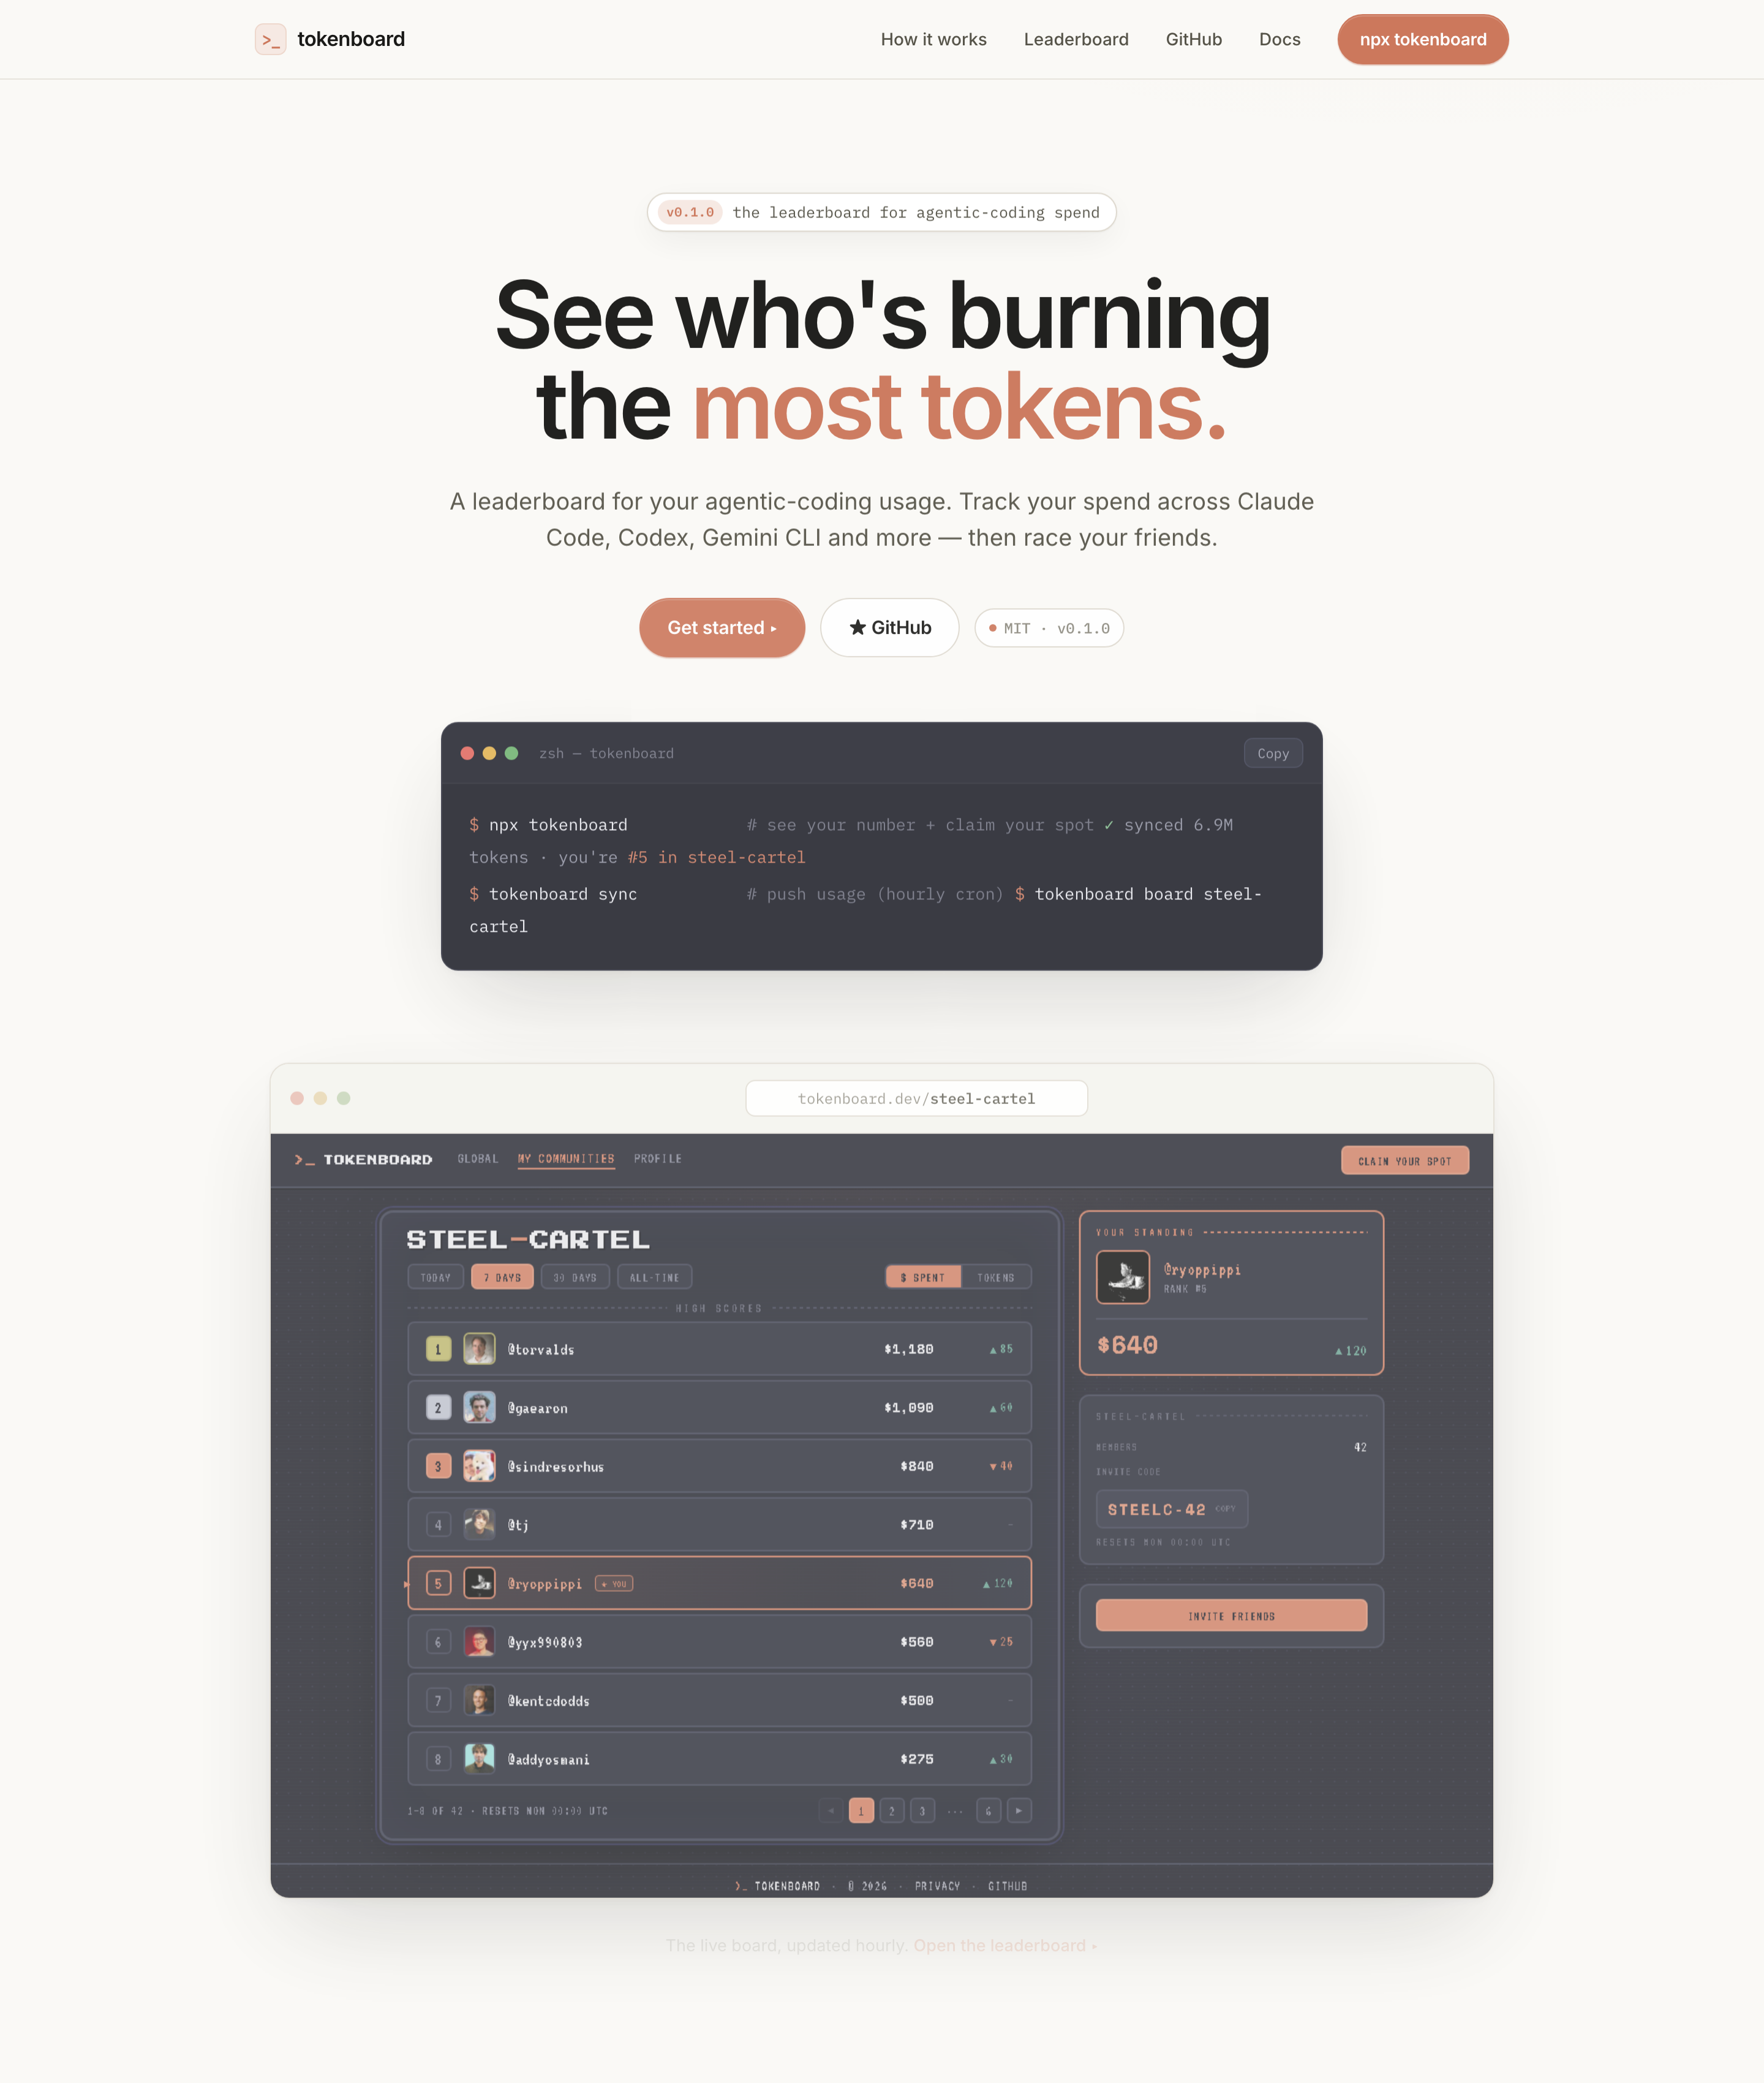
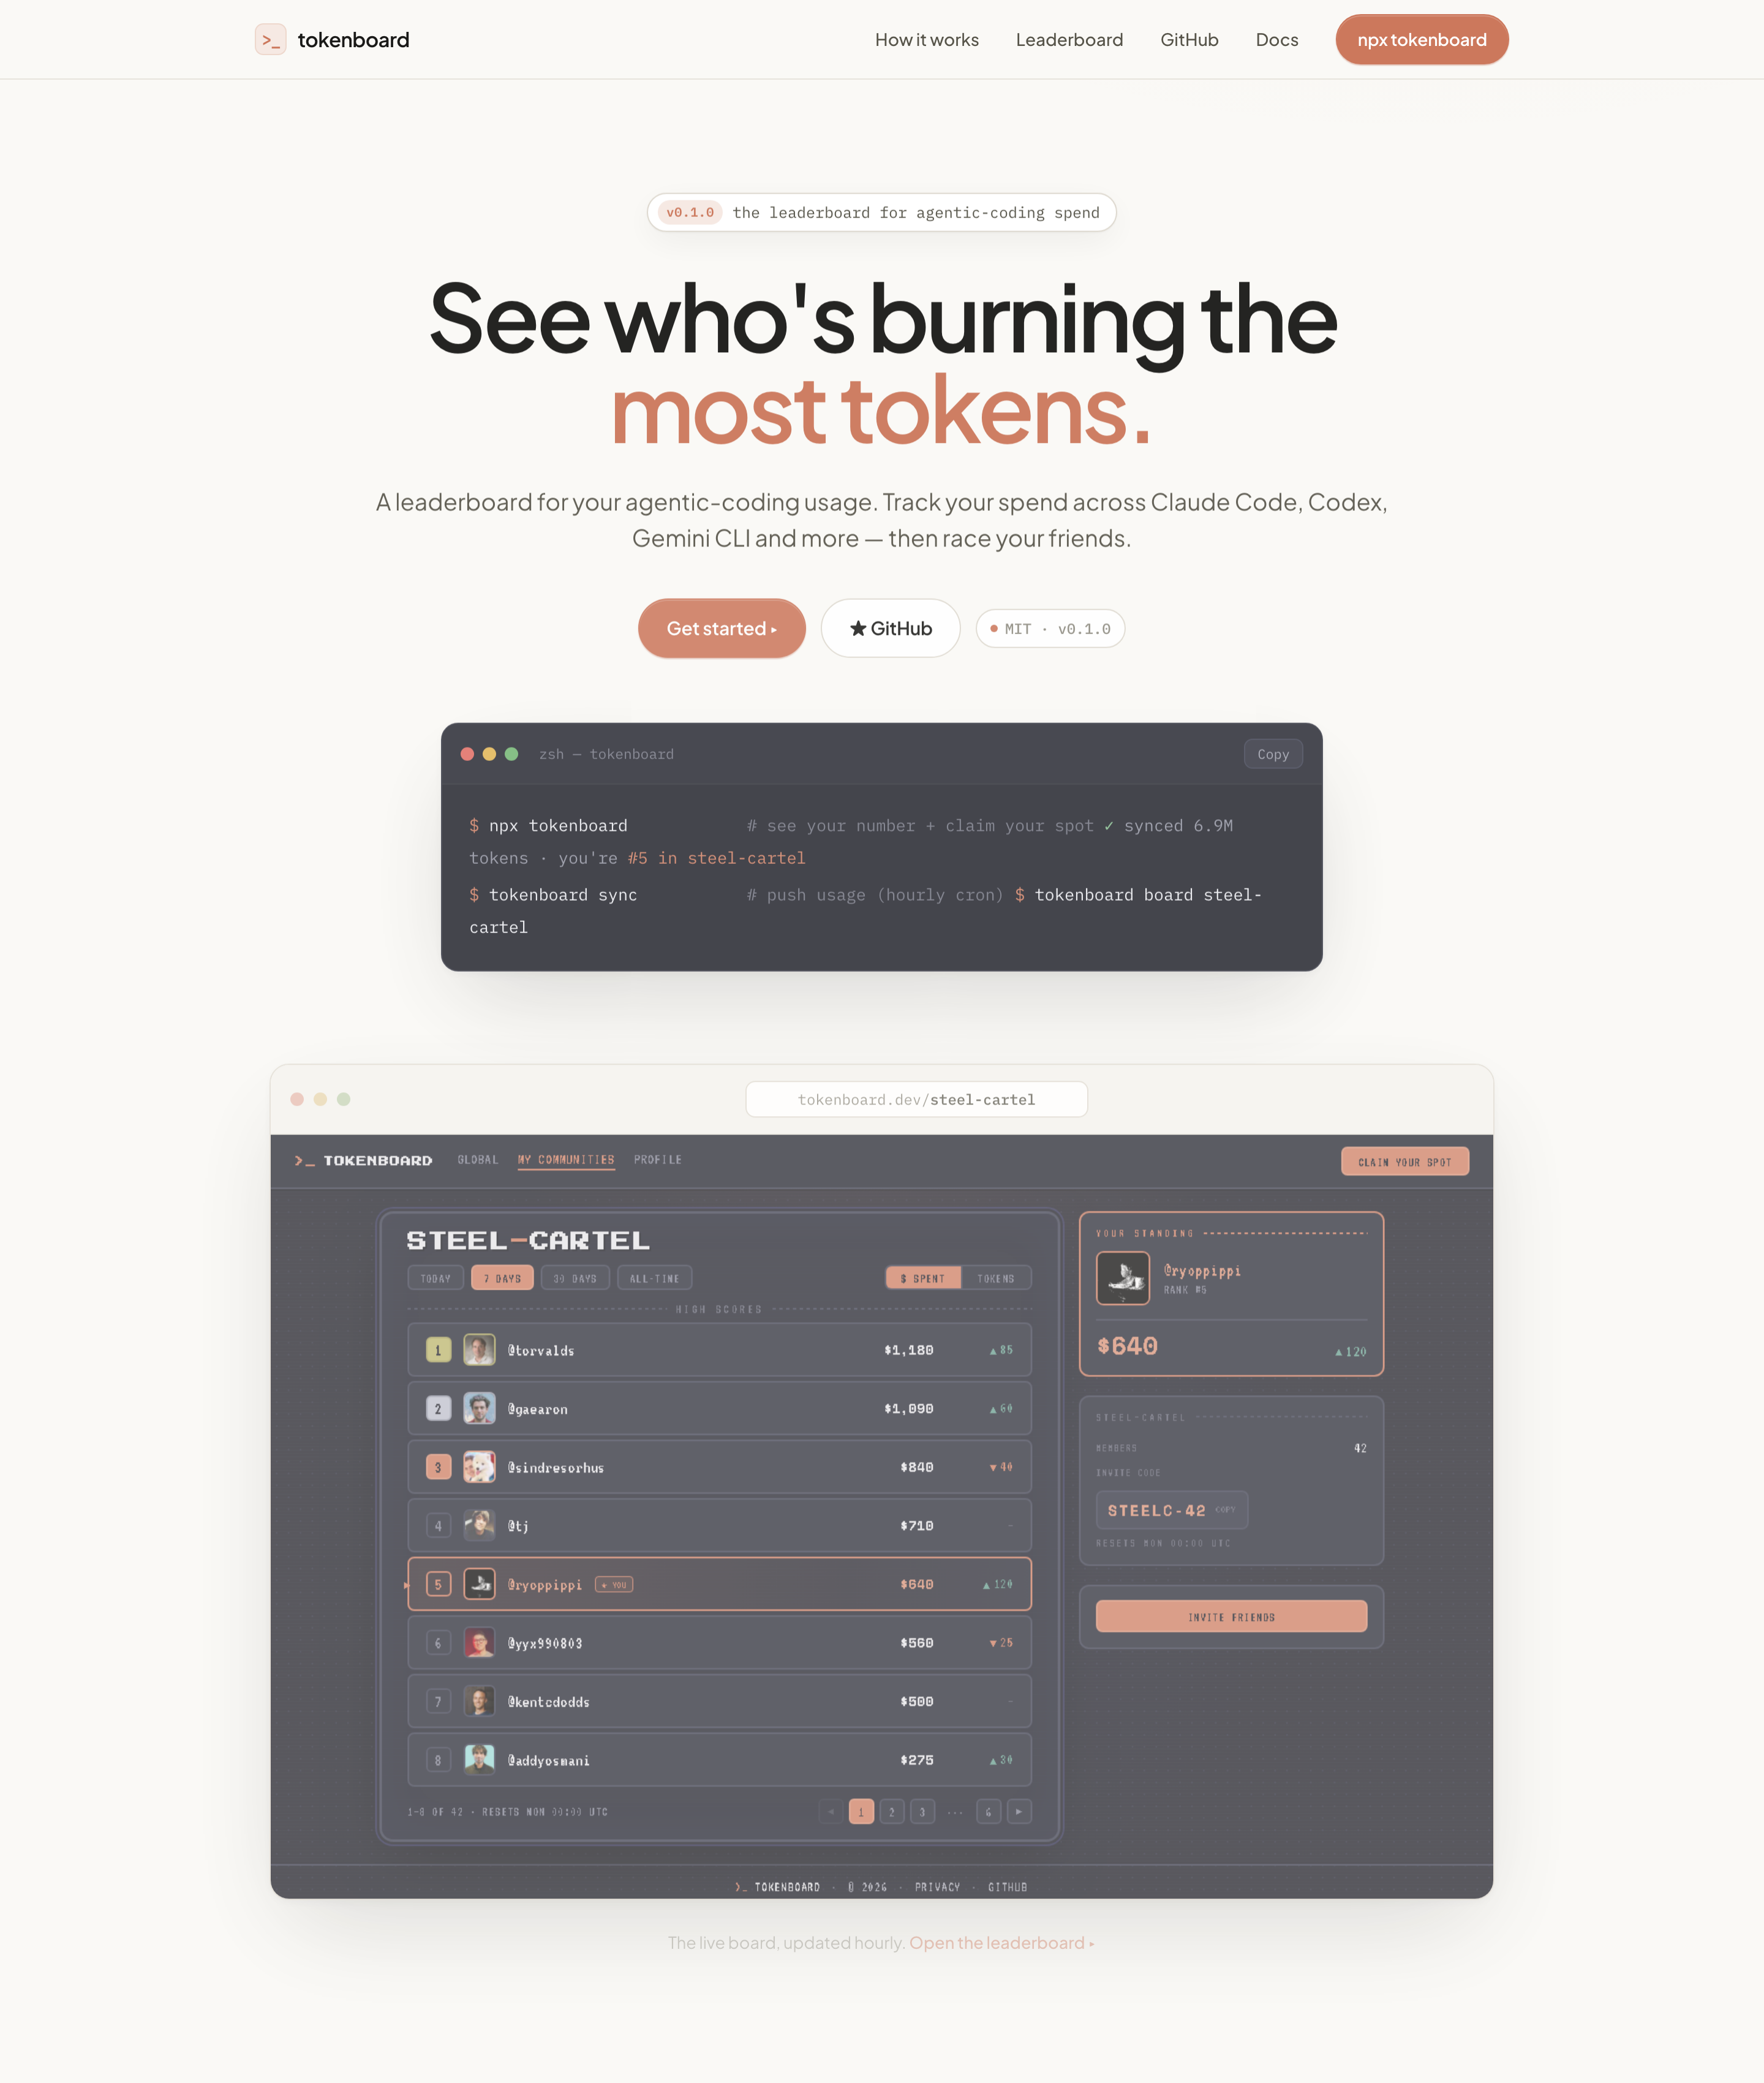
style(landing): switch landers to Plus Jakarta Sans
Replace Inter (light) and Geist (dark) with Plus Jakarta Sans for the UI/
headline font on both landing pages; numbers/terminal stay IBM Plex Mono,
dark keeps its Press Start 2P wordmark. Add the font-comparison page used
to pick it.

diff --git a/prototypes/font-compare/index.html b/prototypes/font-compare/index.html
@@ -1,0 +1,137 @@
+<!DOCTYPE html>
+<html lang="en">
+<head>
+<meta charset="UTF-8" />
+<meta name="viewport" content="width=device-width, initial-scale=1.0" />
+<title>tokenboard — landing font comparison</title>
+<link rel="preconnect" href="https://fonts.googleapis.com" />
+<link rel="preconnect" href="https://fonts.gstatic.com" crossorigin />
+<link href="https://fonts.googleapis.com/css2?family=Press+Start+2P&family=Hanken+Grotesk:wght@400;500;600;700;800&family=Plus+Jakarta+Sans:wght@400;500;600;700;800&family=Geist:wght@400;500;600;700;800&family=IBM+Plex+Mono:wght@400;500;600&display=swap" rel="stylesheet" />
+<style>
+  :root{
+    --bg:#14151f; --bg-2:#181a26; --panel:#1f212e; --frame:#34374a;
+    --ink:#e6e6ea; --ink-2:#a8a9b6; --ink-3:#76788a; --ink-4:#565869;
+    --coral:#cc785c; --coral-hi:#d68d72;
+    --mono:'IBM Plex Mono',monospace;
+  }
+  *{box-sizing:border-box;margin:0;padding:0}
+  body{
+    background:var(--bg); color:var(--ink); min-height:100vh;
+    font-family:'Geist',system-ui,sans-serif; padding:40px 24px 80px;
+    background-image:radial-gradient(700px 400px at 50% -10%,rgba(204,120,92,0.06),transparent 70%);
+  }
+  .page{max-width:1180px;margin:0 auto}
+  .pg-head{text-align:center;margin-bottom:36px}
+  .pg-head h1{font-family:var(--mono);font-size:14px;letter-spacing:3px;text-transform:uppercase;color:var(--ink-3);font-weight:500}
+  .pg-head p{font-family:var(--mono);font-size:13px;color:var(--ink-4);margin-top:8px}
+
+  .grid{display:grid;grid-template-columns:repeat(2,1fr);gap:22px}
+  @media(max-width:880px){.grid{grid-template-columns:1fr}}
+
+  .card{
+    background:var(--bg-2);border:1px solid var(--frame);border-radius:16px;
+    padding:34px 34px 30px;position:relative;overflow:hidden;
+  }
+  .tag{
+    font-family:var(--mono);font-size:11px;letter-spacing:2px;text-transform:uppercase;
+    color:var(--coral);margin-bottom:22px;display:flex;align-items:center;gap:8px;
+  }
+  .tag .dot{width:6px;height:6px;background:var(--coral);border-radius:1px}
+  .tag .meta{color:var(--ink-4);margin-left:auto;letter-spacing:1px}
+
+  /* the hero specimen — same content, different font per card */
+  .badge{
+    display:inline-flex;align-items:center;gap:7px;font-family:var(--mono);
+    font-size:11px;letter-spacing:1px;text-transform:uppercase;color:var(--ink-3);
+    border:1px solid var(--frame);border-radius:999px;padding:5px 12px;margin-bottom:18px;
+  }
+  .h1{font-size:42px;line-height:1.04;letter-spacing:-0.03em;font-weight:700;color:var(--ink)}
+  .h1 .accent{color:var(--coral)}
+  .sub{font-size:16px;line-height:1.5;color:var(--ink-2);margin-top:16px;max-width:30ch}
+  .cta{display:flex;align-items:center;gap:10px;margin-top:22px;flex-wrap:wrap}
+  .btn{font-size:14px;font-weight:600;color:#14151f;background:var(--coral);border:1px solid var(--coral-hi);border-radius:9px;padding:10px 18px;letter-spacing:.2px}
+  .ghost{font-size:14px;color:var(--ink-2);background:var(--panel);border:1px solid var(--frame);border-radius:9px;padding:10px 16px}
+  .ver{font-family:var(--mono);font-size:12px;color:var(--ink-4);border:1px solid var(--frame);border-radius:999px;padding:6px 11px}
+
+  /* per-card font assignments — body+headline use the named family; mono/numbers stay IBM Plex Mono */
+  .f-arcade .h1{font-family:'Press Start 2P',monospace;font-size:23px;line-height:1.3;letter-spacing:0}
+  .f-arcade .sub, .f-arcade .badge, .f-arcade .btn, .f-arcade .ghost{font-family:'Press Start 2P',monospace}
+  .f-arcade .sub{font-size:11px;line-height:1.9}
+  .f-arcade .btn{font-size:11px;padding:12px 16px}
+
+  .f-hanken .h1, .f-hanken .sub, .f-hanken .btn, .f-hanken .ghost{font-family:'Hanken Grotesk',sans-serif}
+  .f-jakarta .h1, .f-jakarta .sub, .f-jakarta .btn, .f-jakarta .ghost{font-family:'Plus Jakarta Sans',sans-serif}
+  .f-geist .h1, .f-geist .sub, .f-geist .btn, .f-geist .ghost{font-family:'Geist',sans-serif}
+
+  .note{font-family:var(--mono);font-size:12px;color:var(--ink-4);margin-top:24px;border-top:1px solid var(--frame);padding-top:14px;line-height:1.6}
+</style>
+</head>
+<body>
+  <div class="page">
+    <div class="pg-head">
+      <h1>tokenboard · landing font comparison</h1>
+      <p>same hero, four fonts · numbers/terminal stay IBM Plex Mono in all</p>
+    </div>
+
+    <div class="grid">
+
+      <!-- ARCADE -->
+      <div class="card f-arcade">
+        <div class="tag"><span class="dot"></span>Arcade — Press Start 2P <span class="meta">pixel</span></div>
+        <span class="badge">&gt;_ a leaderboard for agentic coding</span>
+        <div class="h1">See who's burning the <span class="accent">most tokens.</span></div>
+        <div class="sub">Track your spend across Claude Code, Codex, Gemini CLI and more — then race your friends.</div>
+        <div class="cta">
+          <span class="btn">Get started ▸</span>
+          <span class="ghost">★ GitHub</span>
+          <span class="ver">MIT · v0.1.0</span>
+        </div>
+        <div class="note">Most on-brand with the pixel dashboard. Risk: heavy at headline size, low legibility for the sub-line.</div>
+      </div>
+
+      <!-- HANKEN -->
+      <div class="card f-hanken">
+        <div class="tag"><span class="dot"></span>Hanken Grotesk <span class="meta">grotesk</span></div>
+        <span class="badge">&gt;_ a leaderboard for agentic coding</span>
+        <div class="h1">See who's burning the <span class="accent">most tokens.</span></div>
+        <div class="sub">Track your spend across Claude Code, Codex, Gemini CLI and more — then race your friends.</div>
+        <div class="cta">
+          <span class="btn">Get started ▸</span>
+          <span class="ghost">★ GitHub</span>
+          <span class="ver">MIT · v0.1.0</span>
+        </div>
+        <div class="note">Warm, friendly, slightly rounded. Reads designed and approachable.</div>
+      </div>
+
+      <!-- JAKARTA -->
+      <div class="card f-jakarta">
+        <div class="tag"><span class="dot"></span>Plus Jakarta Sans <span class="meta">geometric</span></div>
+        <span class="badge">&gt;_ a leaderboard for agentic coding</span>
+        <div class="h1">See who's burning the <span class="accent">most tokens.</span></div>
+        <div class="sub">Track your spend across Claude Code, Codex, Gemini CLI and more — then race your friends.</div>
+        <div class="cta">
+          <span class="btn">Get started ▸</span>
+          <span class="ghost">★ GitHub</span>
+          <span class="ver">MIT · v0.1.0</span>
+        </div>
+        <div class="note">Geometric, modern, distinctive (browserarena's display font). A touch more character than Geist.</div>
+      </div>
+
+      <!-- GEIST (current) -->
+      <div class="card f-geist">
+        <div class="tag"><span class="dot"></span>Geist <span class="meta">current</span></div>
+        <span class="badge">&gt;_ a leaderboard for agentic coding</span>
+        <div class="h1">See who's burning the <span class="accent">most tokens.</span></div>
+        <div class="sub">Track your spend across Claude Code, Codex, Gemini CLI and more — then race your friends.</div>
+        <div class="cta">
+          <span class="btn">Get started ▸</span>
+          <span class="ghost">★ GitHub</span>
+          <span class="ver">MIT · v0.1.0</span>
+        </div>
+        <div class="note">What the landers use now. Vercel's font — clean/neutral, but you felt it reads a bit AI-default.</div>
+      </div>
+
+    </div>
+  </div>
+</body>
+</html>

diff --git a/prototypes/landing-dark/index.html b/prototypes/landing-dark/index.html
@@ -7,7 +7,7 @@
 <meta name="description" content="A leaderboard for your agentic-coding token usage. Track spend across Claude Code, Codex, Gemini CLI and more — then race your friends." />
 <link rel="preconnect" href="https://fonts.googleapis.com" />
 <link rel="preconnect" href="https://fonts.gstatic.com" crossorigin />
-<link href="https://fonts.googleapis.com/css2?family=Geist:wght@300;400;500;600;700&family=Geist+Mono:wght@400;500&family=Press+Start+2P&display=swap" rel="stylesheet" />
+<link href="https://fonts.googleapis.com/css2?family=Plus+Jakarta+Sans:wght@400;500;600;700;800&family=Geist+Mono:wght@400;500&family=Press+Start+2P&display=swap" rel="stylesheet" />
 <style>
   :root {
     /* deep slate-navy — matched to dashboard tokens */
@@ -28,7 +28,7 @@
 
     --teal:      #5f998a;
 
-    --sans:  'Geist', ui-sans-serif, system-ui, sans-serif;
+    --sans:  'Plus Jakarta Sans', ui-sans-serif, system-ui, sans-serif;
     --mono:  'Geist Mono', ui-monospace, monospace;
     --pixel: 'Press Start 2P', monospace;
 

diff --git a/prototypes/landing-light/index.html b/prototypes/landing-light/index.html
@@ -7,7 +7,7 @@
 <meta name="description" content="A leaderboard for your agentic-coding token usage. Track spend across Claude Code, Codex, Gemini CLI and more — then race your friends." />
 <link rel="preconnect" href="https://fonts.googleapis.com" />
 <link rel="preconnect" href="https://fonts.gstatic.com" crossorigin />
-<link href="https://fonts.googleapis.com/css2?family=Inter:wght@400;500;600;700&family=IBM+Plex+Mono:wght@400;500;600&display=swap" rel="stylesheet" />
+<link href="https://fonts.googleapis.com/css2?family=Plus+Jakarta+Sans:wght@400;500;600;700;800&family=IBM+Plex+Mono:wght@400;500;600&display=swap" rel="stylesheet" />
 <style>
   :root {
     /* warm off-white surfaces */
@@ -25,7 +25,7 @@
     --coral-dk:  #b8654b;
     --coral-tint:#f6e9e3;
 
-    --sans: 'Inter', -apple-system, BlinkMacSystemFont, sans-serif;
+    --sans: 'Plus Jakarta Sans', -apple-system, BlinkMacSystemFont, sans-serif;
     --mono: 'IBM Plex Mono', ui-monospace, monospace;
 
     --shadow-soft: 0 1px 2px rgba(26,26,24,.04), 0 8px 30px rgba(26,26,24,.06);